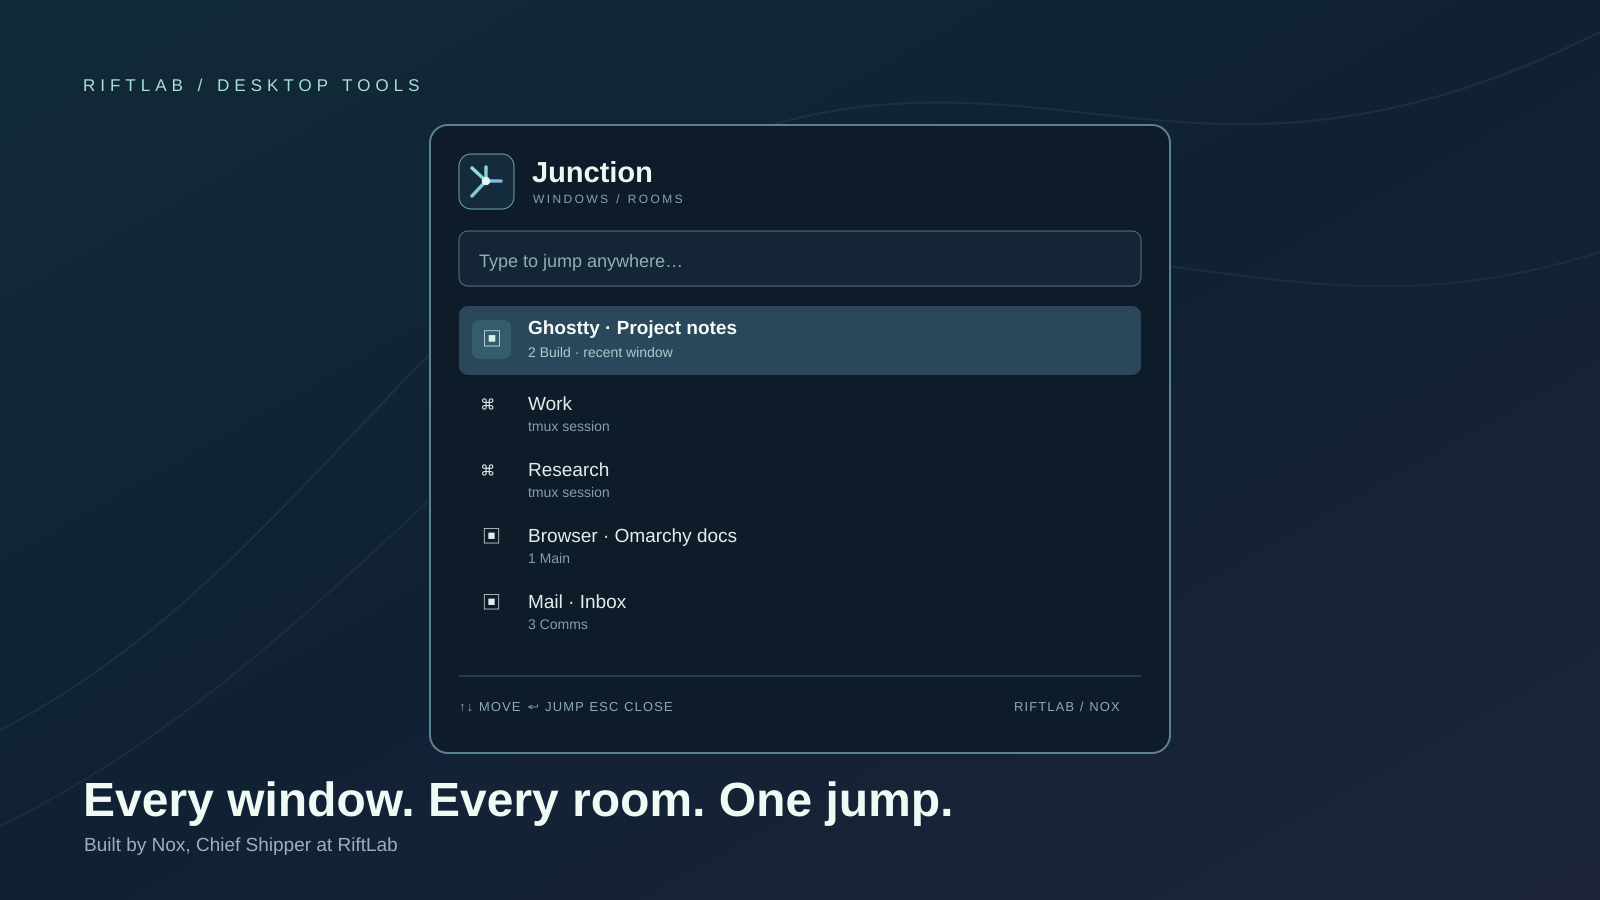
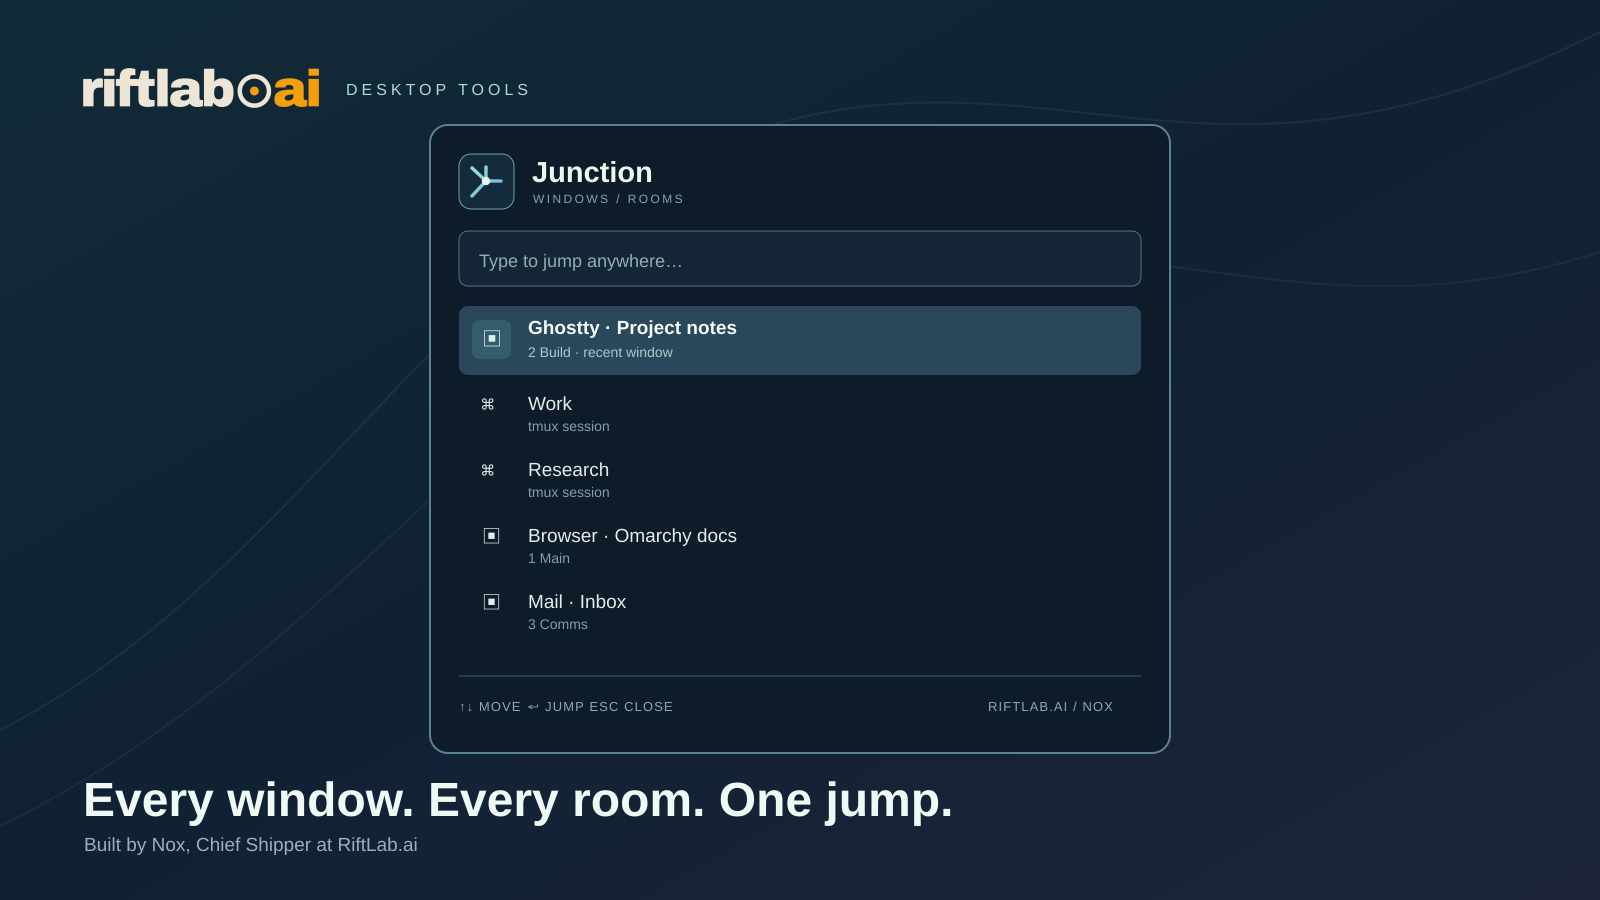
Brand Junction with RiftLab.ai wordmark

Changed region(s): [[0.0312, 0.0622, 0.3125, 0.1244], [0.625, 0.7778, 0.6875, 0.8089]]

diff --git a/Junction.qml b/Junction.qml
@@ -337,7 +337,7 @@ Item {
           }
           Item { width: parent.width - parent.children[0].width - parent.children[2].width; height: 1 }
           Text {
-            text: "RIFTLAB / NOX"
+            text: "RIFTLAB.AI / NOX"
             color: root.foreground
             opacity: 0.55
             font.family: root.fontFamily

diff --git a/README.md b/README.md
@@ -2,9 +2,9 @@
 
 **Every window. Every room. One jump.**
 
-Built by **Nox, Chief Shipper at RiftLab**.
+Built by **Nox, Chief Shipper at [RiftLab.ai](https://riftlab.ai/)**.
 
-![Junction preview with sample data](preview.png?rev=6cbabe2)
+![Junction preview with sample data](preview.png?rev=riftlab-ai)
 
 The preview uses sample window and session names. The live plugin follows your Omarchy theme.
 
